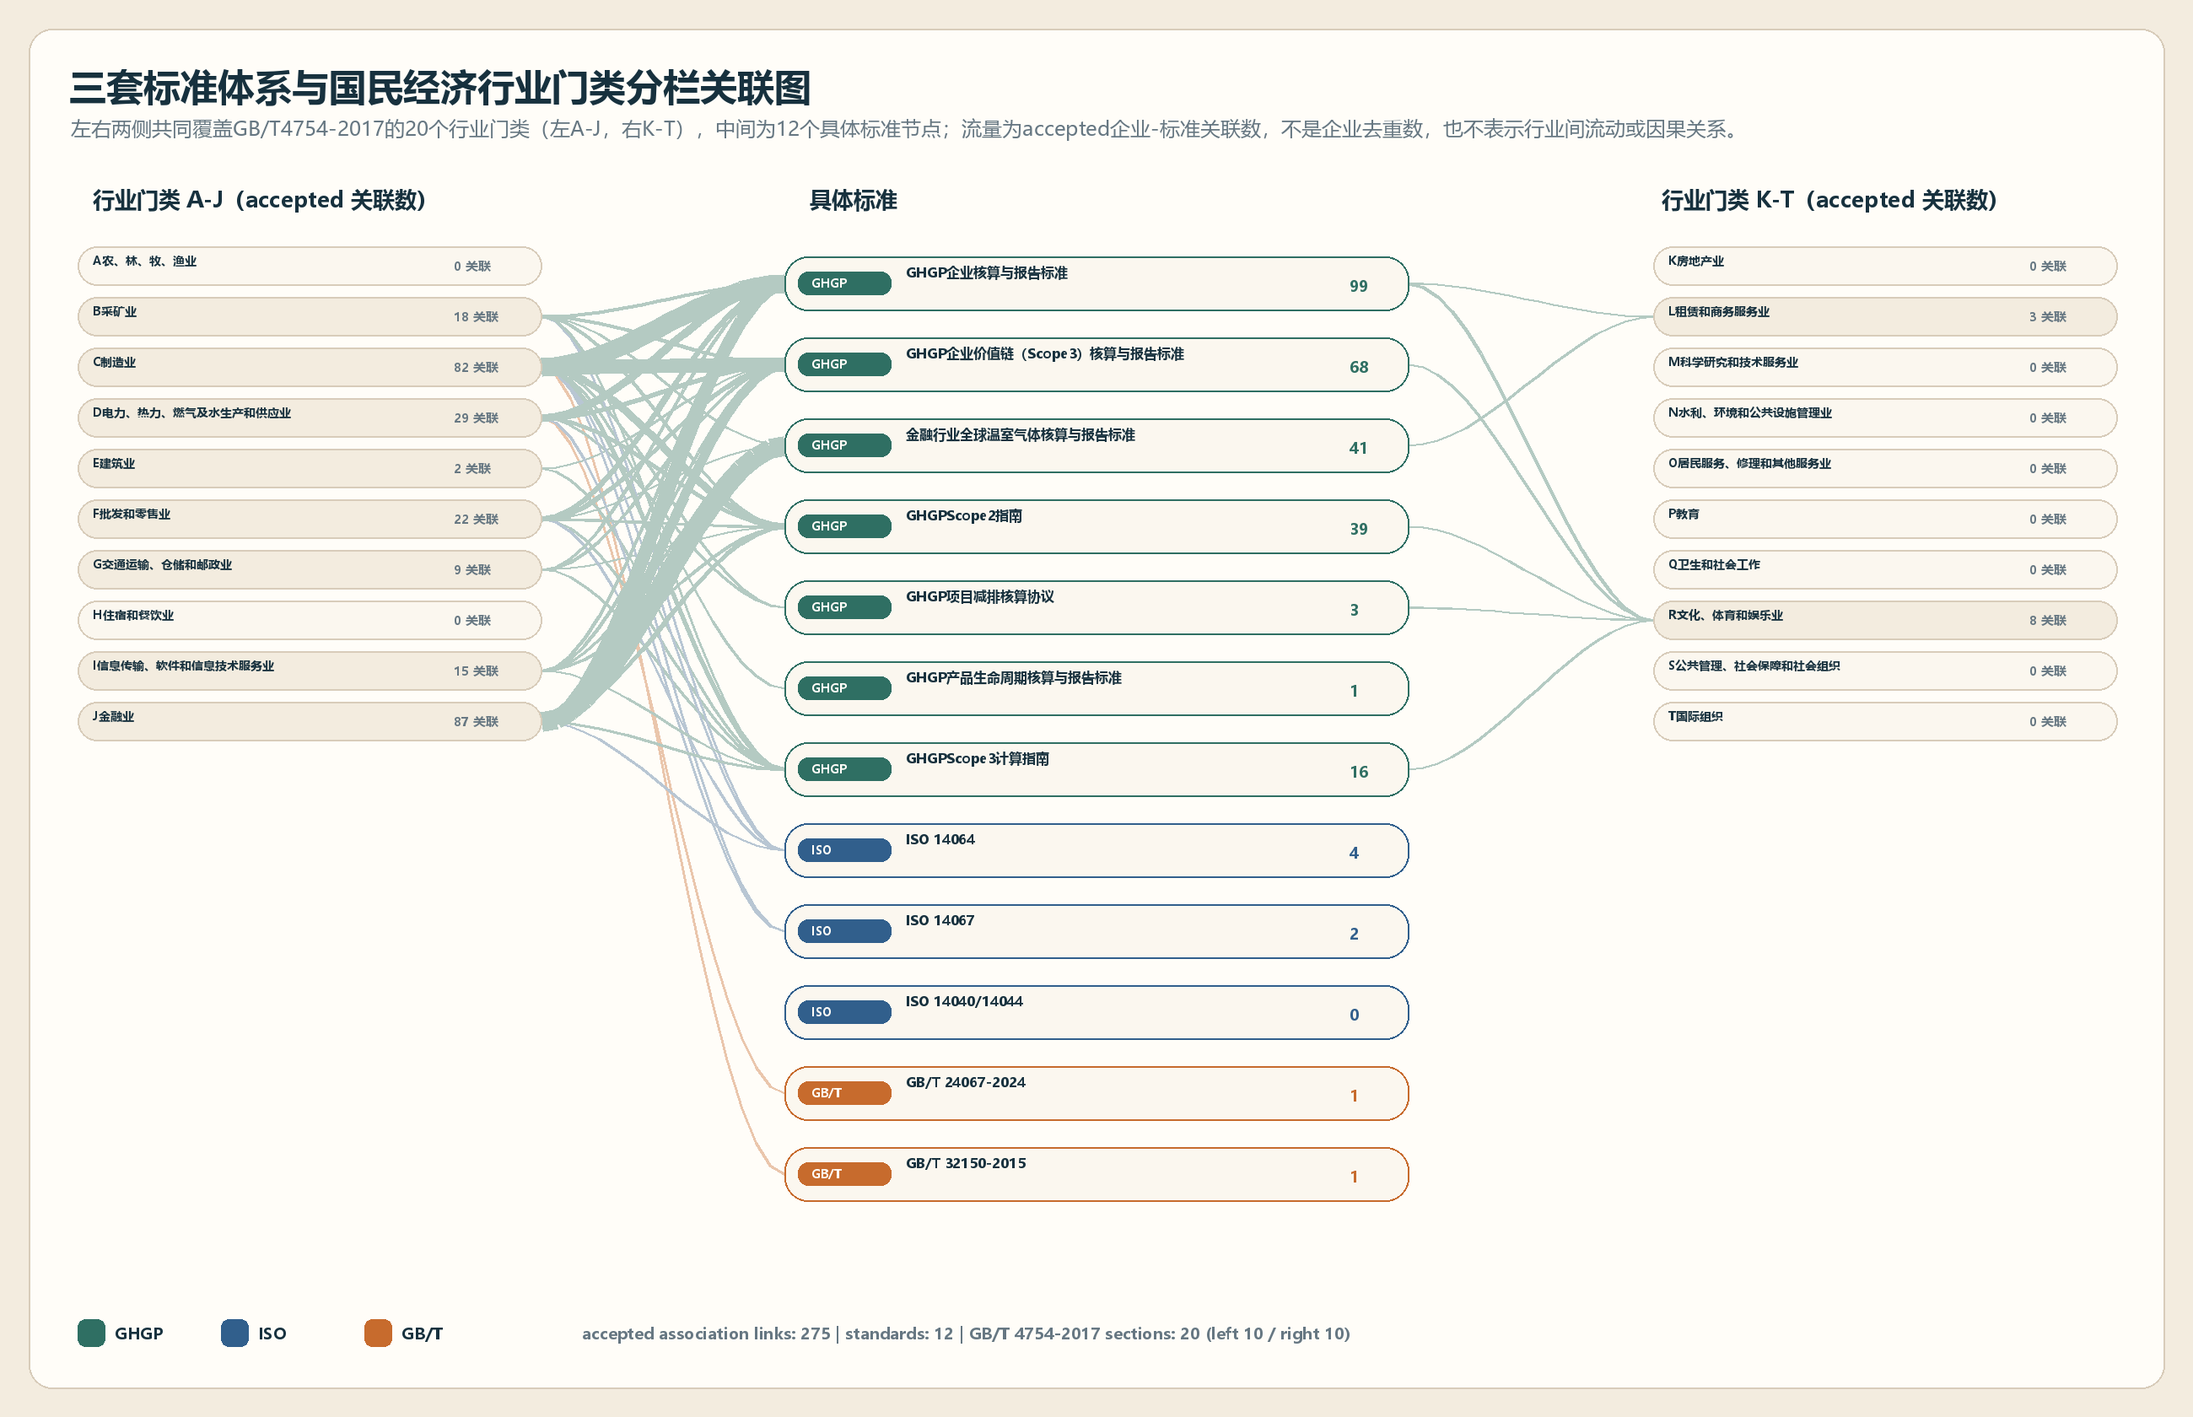
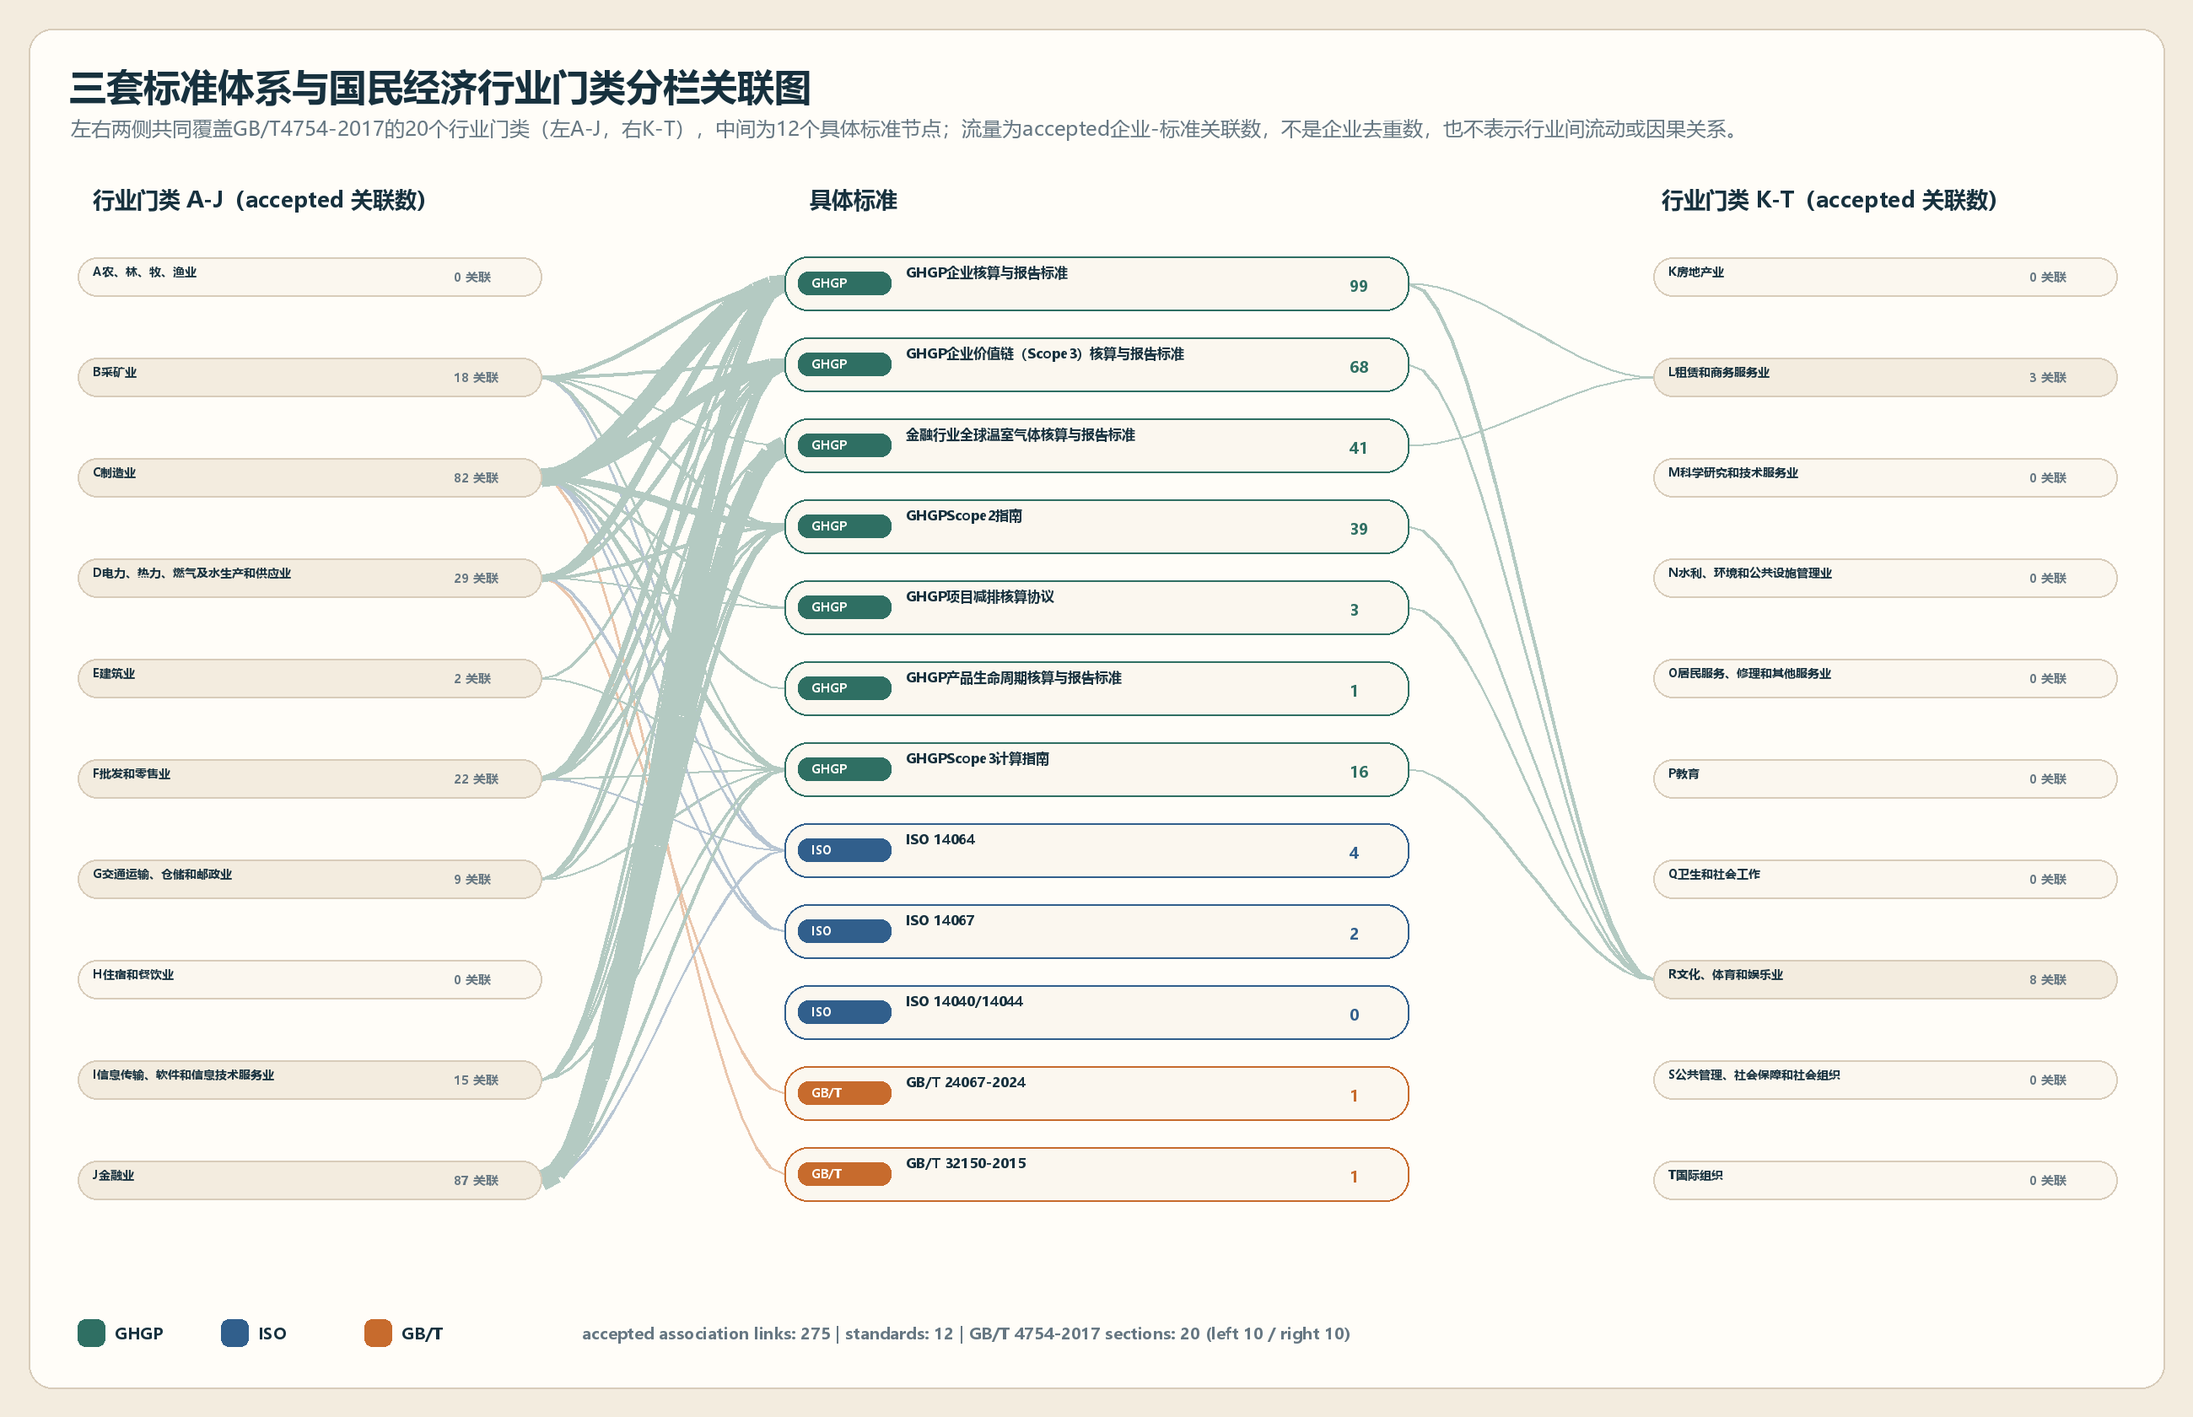
Improve standard industry Sankey layout

diff --git a/reporting-completion-audit.html b/reporting-completion-audit.html
@@ -22,7 +22,7 @@
 <ul>
 <li>生成时间：2026-07-08</li>
 <li>审计矩阵日期：2026-06-07</li>
-<li>PNG manifest 生成时间：2026-07-08T08:42:53+00:00</li>
+<li>PNG manifest 生成时间：2026-07-08T09:08:59+00:00</li>
 <li>总体状态：partial</li>
 <li>是否可以声明全部完成：不可</li>
 </ul>
@@ -139,16 +139,16 @@
 <tr><td>assets/figures/zh/world500_emissions_ranking_graph.png</td><td>R2_TOTAL_EMISSIONS_RANKING_DESC</td><td>partial_complete_comparable_only</td><td>不可</td><td>只有 Scope 1、选定 Scope 2 和 Scope 3 均具备强证据的企业进入可比排行图；partial 总量被排除。</td></tr>
 <tr><td>assets/figures/zh/world500_standard_chain_overview.png</td><td>R1_GHG_FINE_SERIES_AND_STANDARD_COMPANY_MAPPING</td><td>partial_review_edges_remain</td><td>不可</td><td>GHG 细分系列企业数默认只按显式采信证据统计；上下文映射和疑似过度映射仍为复核数据。</td></tr>
 <tr><td>assets/figures/zh/world500_standard_role_entity_graph.png</td><td>R1_GHG_FINE_SERIES_AND_STANDARD_COMPANY_MAPPING</td><td>partial_review_edges_remain</td><td>不可</td><td>Entity graph renders accepted standard-company edges only; generic GHG references and contextual mappings are excluded.</td></tr>
-<tr><td>assets/figures/zh/world500_standard_industry_section_sankey.png</td><td>R1_GHG_FINE_SERIES_AND_STANDARD_COMPANY_MAPPING</td><td>partial_evidence_bounded</td><td>不可</td><td>行业分列 Sankey 只使用 accepted 企业-标准边；review 行保留在审计队列中，不计入流量权重。</td></tr>
 <tr><td>assets/figures/zh/world500_technology_cluster_overview.png</td><td>R4_TECHNOLOGY_PATH_AXIS</td><td>partial_disclosure_signal_only</td><td>不可</td><td>技术聚类是企业报告中的披露主题信号，不等于已核证项目实施、减排量或项目经济性。</td></tr>
 <tr><td>assets/figures/zh/world500_primary_secondary_source_mix.png</td><td>R5_PRIMARY_SECONDARY_BUBBLE</td><td>partial_source_mix_inference</td><td>不可</td><td>除原文明示 primary-data 百分比外，图中比例是来源结构推断，不是审定计算权重。</td></tr>
-<tr><td>assets/figures/zh/world500_emissions_industry_section_ranking.png</td><td>R2_TOTAL_EMISSIONS_RANKING_DESC</td><td>partial_complete_comparable_only</td><td>不可</td><td>行业排行区分完整可比企业、可用 partial 总量以及缺完整 Scope 1/2/3 闭环的行业缺口。</td></tr>
 <tr><td>assets/figures/en/world500_emissions_ranking_graph.png</td><td>R2_TOTAL_EMISSIONS_RANKING_DESC</td><td>partial_complete_comparable_only</td><td>不可</td><td>只有 Scope 1、选定 Scope 2 和 Scope 3 均具备强证据的企业进入可比排行图；partial 总量被排除。</td></tr>
 <tr><td>assets/figures/en/world500_standard_chain_overview.png</td><td>R1_GHG_FINE_SERIES_AND_STANDARD_COMPANY_MAPPING</td><td>partial_review_edges_remain</td><td>不可</td><td>GHG 细分系列企业数默认只按显式采信证据统计；上下文映射和疑似过度映射仍为复核数据。</td></tr>
 <tr><td>assets/figures/en/world500_standard_role_entity_graph.png</td><td>R1_GHG_FINE_SERIES_AND_STANDARD_COMPANY_MAPPING</td><td>partial_review_edges_remain</td><td>不可</td><td>Entity graph renders accepted standard-company edges only; generic GHG references and contextual mappings are excluded.</td></tr>
-<tr><td>assets/figures/en/world500_standard_industry_section_sankey.png</td><td>R1_GHG_FINE_SERIES_AND_STANDARD_COMPANY_MAPPING</td><td>partial_evidence_bounded</td><td>不可</td><td>行业分列 Sankey 只使用 accepted 企业-标准边；review 行保留在审计队列中，不计入流量权重。</td></tr>
 <tr><td>assets/figures/en/world500_technology_cluster_overview.png</td><td>R4_TECHNOLOGY_PATH_AXIS</td><td>partial_disclosure_signal_only</td><td>不可</td><td>技术聚类是企业报告中的披露主题信号，不等于已核证项目实施、减排量或项目经济性。</td></tr>
 <tr><td>assets/figures/en/world500_primary_secondary_source_mix.png</td><td>R5_PRIMARY_SECONDARY_BUBBLE</td><td>partial_source_mix_inference</td><td>不可</td><td>除原文明示 primary-data 百分比外，图中比例是来源结构推断，不是审定计算权重。</td></tr>
+<tr><td>assets/figures/zh/world500_standard_industry_section_sankey.png</td><td>R1_GHG_FINE_SERIES_AND_STANDARD_COMPANY_MAPPING</td><td>partial_evidence_bounded</td><td>不可</td><td>基于 accepted 企业-标准关联数和 GB/T 4754-2017 门类分栏生成；review 数据不进入 accepted 流量图。</td></tr>
+<tr><td>assets/figures/en/world500_standard_industry_section_sankey.png</td><td>R1_GHG_FINE_SERIES_AND_STANDARD_COMPANY_MAPPING</td><td>partial_evidence_bounded</td><td>不可</td><td>基于 accepted 企业-标准关联数和 GB/T 4754-2017 门类分栏生成；review 数据不进入 accepted 流量图。</td></tr>
+<tr><td>assets/figures/zh/world500_emissions_industry_section_ranking.png</td><td>R2_TOTAL_EMISSIONS_RANKING_DESC</td><td>partial_complete_comparable_only</td><td>不可</td><td>行业排行区分完整可比企业、可用 partial 总量以及缺完整 Scope 1/2/3 闭环的行业缺口。</td></tr>
 <tr><td>assets/figures/en/world500_emissions_industry_section_ranking.png</td><td>R2_TOTAL_EMISSIONS_RANKING_DESC</td><td>partial_complete_comparable_only</td><td>不可</td><td>行业排行区分完整可比企业、可用 partial 总量以及缺完整 Scope 1/2/3 闭环的行业缺口。</td></tr>
 </table></div>
 <h2>Completion Workplan</h2>

diff --git a/tools/sync_industry_static_figures.py b/tools/sync_industry_static_figures.py
@@ -110,11 +110,15 @@ def render_sankey(lang: str) -> Path:
     mid_x1, mid_x2 = 930, 1670
     right_x1, right_x2 = 1960, 2510
     section_h, standard_h = 46, 64
-    section_top, standard_top = 292, 304
-    section_step = 60
+    standard_top = 304
     standard_step = 96
     left_sections = sections[:10]
     right_sections = sections[10:]
+    standard_span = max(standard_h, (len(registry) - 1) * standard_step + standard_h)
+    side_count = max(len(left_sections), len(right_sections), 1)
+    section_step = 0 if side_count == 1 else round((standard_span - section_h) / (side_count - 1))
+    section_span = (side_count - 1) * section_step + section_h
+    section_top = standard_top + (standard_span - section_span) // 2
     left_codes = {str(row["industry_section_code"]) for row in left_sections}
     section_y = {str(row["industry_section_code"]): section_top + index * section_step for index, row in enumerate(left_sections)}
     section_y.update({str(row["industry_section_code"]): section_top + index * section_step for index, row in enumerate(right_sections)})
@@ -229,23 +233,16 @@ def update_manifest(outputs: list[Path]) -> None:
     names = {output.name for output in outputs}
     manifest["figures"] = [item for item in manifest.get("figures", []) if Path(item["file"]).name not in names]
     metadata = {
-        "world500_standard_industry_section_sankey.png": (
-            "standard_industry_sankey",
-            "R1_GHG_FINE_SERIES_AND_STANDARD_COMPANY_MAPPING",
-            "GHGP, ISO, and GB/T standards by split industry sections",
-            "GHGP、ISO、GB/T 标准与行业门类分栏关联图",
-            ["standard_industry_sankey_links", "standard_industry_sankey_evidence"],
-        ),
-        "world500_emissions_industry_section_ranking.png": (
-            "emissions_industry_ranking",
-            "R2_TOTAL_EMISSIONS_RANKING_DESC",
-            "Emissions industry-section ranking",
-            "排放行业门类排行与缺失统计",
-            ["emissions_industry_section_outputs"],
-        ),
+        "world500_standard_industry_section_sankey.png": ("standard_industry_sankey", "R1_GHG_FINE_SERIES_AND_STANDARD_COMPANY_MAPPING", "GHGP, ISO, and GB/T standards by split industry sections", "GHGP、ISO、GB/T 标准与行业门类分栏关联图", ["standard_industry_sankey_links", "standard_industry_sankey_evidence"]),
+        "world500_emissions_industry_section_ranking.png": ("emissions_industry_ranking", "R2_TOTAL_EMISSIONS_RANKING_DESC", "Emissions industry-section ranking", "排放行业门类排行与缺失统计", ["emissions_industry_section_outputs"]),
+    }
+    boundaries = {
+        "standard_industry_sankey": (["industry_section_outputs"], "partial_evidence_bounded", "Generated from accepted company-standard associations split by GB/T 4754-2017 sections; review data remain excluded from accepted-flow charts.", "基于 accepted 企业-标准关联数和 GB/T 4754-2017 门类分栏生成；review 数据不进入 accepted 流量图。"),
+        "emissions_industry_ranking": (["industry_section_outputs", "emission-ledger"], "partial_complete_comparable_only", "The industry ranking distinguishes complete comparable companies, available partial totals, and missing complete Scope 1/2/3 closure by industry section.", "行业排行区分完整可比企业、可用 partial 总量以及缺完整 Scope 1/2/3 闭环的行业缺口。"),
     }
     for output in outputs:
         figure_no, requirement_id, title_en, title_zh, data_keys = metadata[output.name]
+        page_sections, claim_status, boundary_en, boundary_zh = boundaries[figure_no]
         manifest["figures"].append({
             "file": str(output.relative_to(ROOT)).replace("\\", "/"),
             "lang": output.parent.name,
@@ -254,12 +251,12 @@ def update_manifest(outputs: list[Path]) -> None:
             "title_en": title_en,
             "title_zh": title_zh,
             "data_keys": data_keys,
-            "page_sections": ["industry_section_outputs"],
-            "claim_status": "partial_evidence_bounded",
+            "page_sections": page_sections,
+            "claim_status": claim_status,
             "can_claim_requirement_complete": False,
             "static_sync_can_claim_complete": True,
-            "audit_boundary_en": "Generated from accepted company-standard associations split by GB/T 4754-2017 sections; review data remain excluded from accepted-flow charts.",
-            "audit_boundary_zh": "基于 accepted 企业-标准关联数和 GB/T 4754-2017 门类分栏生成；review 数据不进入 accepted 流量图。",
+            "audit_boundary_en": boundary_en,
+            "audit_boundary_zh": boundary_zh,
             "bytes": output.stat().st_size,
             "sha256": sha256(output),
         })

diff --git a/REPORTING_COMPLETION_AUDIT_ZH.md b/REPORTING_COMPLETION_AUDIT_ZH.md
@@ -2,7 +2,7 @@
 
 - 生成时间：2026-07-08
 - 审计矩阵日期：2026-06-07
-- PNG manifest 生成时间：2026-07-08T08:42:53+00:00
+- PNG manifest 生成时间：2026-07-08T09:08:59+00:00
 - 总体状态：partial
 - 是否可以声明全部完成：不可
 
@@ -127,16 +127,16 @@
 | assets/figures/zh/world500_emissions_ranking_graph.png | R2_TOTAL_EMISSIONS_RANKING_DESC | partial_complete_comparable_only | 不可 | 只有 Scope 1、选定 Scope 2 和 Scope 3 均具备强证据的企业进入可比排行图；partial 总量被排除。 |
 | assets/figures/zh/world500_standard_chain_overview.png | R1_GHG_FINE_SERIES_AND_STANDARD_COMPANY_MAPPING | partial_review_edges_remain | 不可 | GHG 细分系列企业数默认只按显式采信证据统计；上下文映射和疑似过度映射仍为复核数据。 |
 | assets/figures/zh/world500_standard_role_entity_graph.png | R1_GHG_FINE_SERIES_AND_STANDARD_COMPANY_MAPPING | partial_review_edges_remain | 不可 | Entity graph renders accepted standard-company edges only; generic GHG references and contextual mappings are excluded. |
-| assets/figures/zh/world500_standard_industry_section_sankey.png | R1_GHG_FINE_SERIES_AND_STANDARD_COMPANY_MAPPING | partial_evidence_bounded | 不可 | 行业分列 Sankey 只使用 accepted 企业-标准边；review 行保留在审计队列中，不计入流量权重。 |
 | assets/figures/zh/world500_technology_cluster_overview.png | R4_TECHNOLOGY_PATH_AXIS | partial_disclosure_signal_only | 不可 | 技术聚类是企业报告中的披露主题信号，不等于已核证项目实施、减排量或项目经济性。 |
 | assets/figures/zh/world500_primary_secondary_source_mix.png | R5_PRIMARY_SECONDARY_BUBBLE | partial_source_mix_inference | 不可 | 除原文明示 primary-data 百分比外，图中比例是来源结构推断，不是审定计算权重。 |
-| assets/figures/zh/world500_emissions_industry_section_ranking.png | R2_TOTAL_EMISSIONS_RANKING_DESC | partial_complete_comparable_only | 不可 | 行业排行区分完整可比企业、可用 partial 总量以及缺完整 Scope 1/2/3 闭环的行业缺口。 |
 | assets/figures/en/world500_emissions_ranking_graph.png | R2_TOTAL_EMISSIONS_RANKING_DESC | partial_complete_comparable_only | 不可 | 只有 Scope 1、选定 Scope 2 和 Scope 3 均具备强证据的企业进入可比排行图；partial 总量被排除。 |
 | assets/figures/en/world500_standard_chain_overview.png | R1_GHG_FINE_SERIES_AND_STANDARD_COMPANY_MAPPING | partial_review_edges_remain | 不可 | GHG 细分系列企业数默认只按显式采信证据统计；上下文映射和疑似过度映射仍为复核数据。 |
 | assets/figures/en/world500_standard_role_entity_graph.png | R1_GHG_FINE_SERIES_AND_STANDARD_COMPANY_MAPPING | partial_review_edges_remain | 不可 | Entity graph renders accepted standard-company edges only; generic GHG references and contextual mappings are excluded. |
-| assets/figures/en/world500_standard_industry_section_sankey.png | R1_GHG_FINE_SERIES_AND_STANDARD_COMPANY_MAPPING | partial_evidence_bounded | 不可 | 行业分列 Sankey 只使用 accepted 企业-标准边；review 行保留在审计队列中，不计入流量权重。 |
 | assets/figures/en/world500_technology_cluster_overview.png | R4_TECHNOLOGY_PATH_AXIS | partial_disclosure_signal_only | 不可 | 技术聚类是企业报告中的披露主题信号，不等于已核证项目实施、减排量或项目经济性。 |
 | assets/figures/en/world500_primary_secondary_source_mix.png | R5_PRIMARY_SECONDARY_BUBBLE | partial_source_mix_inference | 不可 | 除原文明示 primary-data 百分比外，图中比例是来源结构推断，不是审定计算权重。 |
+| assets/figures/zh/world500_standard_industry_section_sankey.png | R1_GHG_FINE_SERIES_AND_STANDARD_COMPANY_MAPPING | partial_evidence_bounded | 不可 | 基于 accepted 企业-标准关联数和 GB/T 4754-2017 门类分栏生成；review 数据不进入 accepted 流量图。 |
+| assets/figures/en/world500_standard_industry_section_sankey.png | R1_GHG_FINE_SERIES_AND_STANDARD_COMPANY_MAPPING | partial_evidence_bounded | 不可 | 基于 accepted 企业-标准关联数和 GB/T 4754-2017 门类分栏生成；review 数据不进入 accepted 流量图。 |
+| assets/figures/zh/world500_emissions_industry_section_ranking.png | R2_TOTAL_EMISSIONS_RANKING_DESC | partial_complete_comparable_only | 不可 | 行业排行区分完整可比企业、可用 partial 总量以及缺完整 Scope 1/2/3 闭环的行业缺口。 |
 | assets/figures/en/world500_emissions_industry_section_ranking.png | R2_TOTAL_EMISSIONS_RANKING_DESC | partial_complete_comparable_only | 不可 | 行业排行区分完整可比企业、可用 partial 总量以及缺完整 Scope 1/2/3 闭环的行业缺口。 |
 
 ## Completion Workplan
